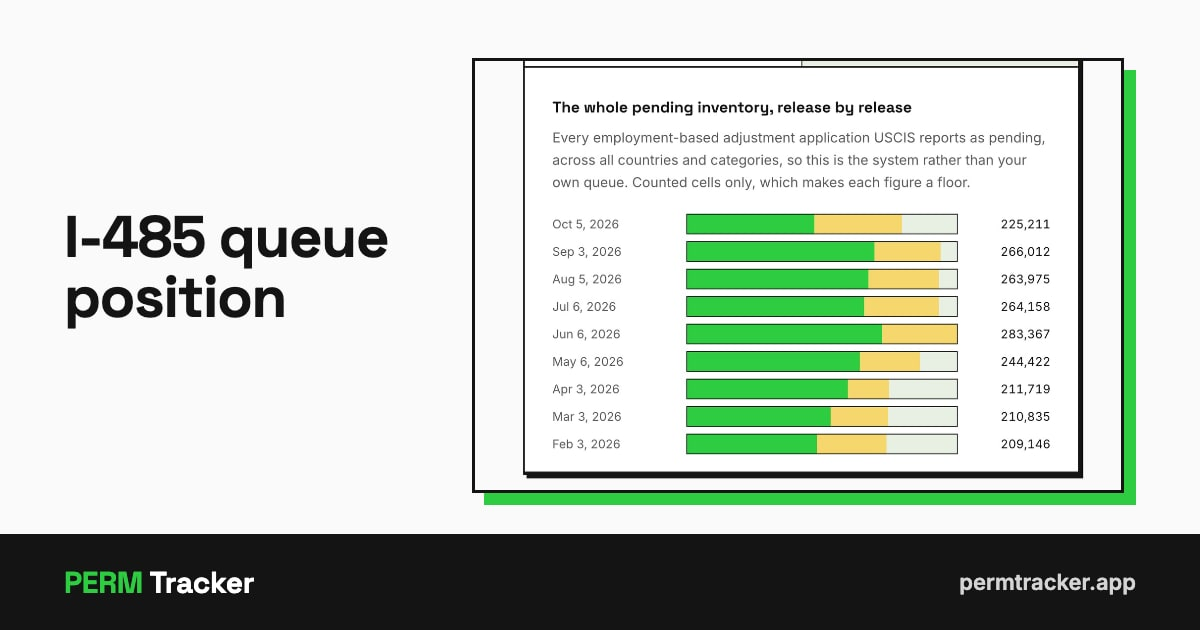
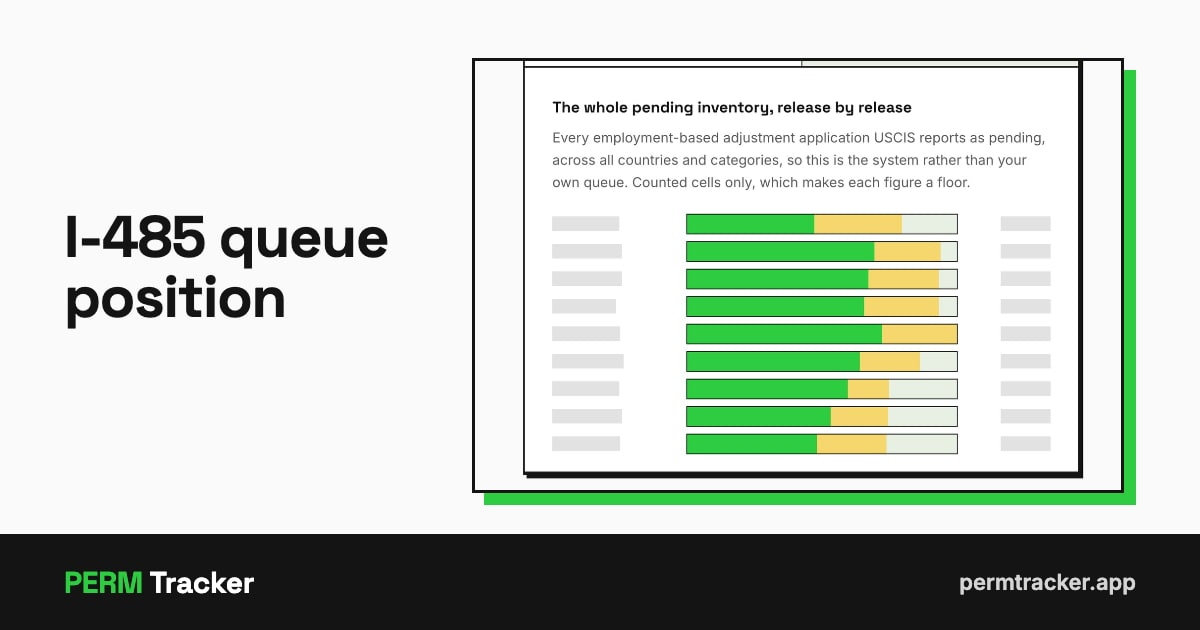
fix(cards): 19 share cards keep the page's shape and drop its moving figures
A shared card is a still picture, so a count or date on it goes stale (the
owner's rule: a card holds no live figure). An OCR pass found counts, shares
and dates on 19 cards: the case search, layoffs, LCA, wage-request, PERM and
seasonal searches, law firms, the queue, employers under review, press, the
I-140 and I-485 counts, the green card line, EB-2 vs EB-3, both salary
charts, denial risk and open data. Their specs now say "mask": "figures", and
the capture draws each moving figure as a grey bar of its own width (the
reviews card's treatment) and hides a chart's own labels, so each card still
shows its page. Codes and fixed wording stay (G-100-..., ETA-9089, I-140,
"60 days' notice"). The rule is scripts/lib_card_mask.mjs, tested; two passes
of looking at every card found what the first rule missed.

Claude-Session: https://claude.ai/code/session_01XYgdcpR3a27fwYMdTXZtsH

Changed region(s): [[0.4625, 0.3317, 0.5242, 0.7238], [0.8325, 0.3317, 0.8942, 0.7238]]

diff --git a/v2/src/lib/__tests__/cardMask.test.ts b/v2/src/lib/__tests__/cardMask.test.ts
@@ -1,0 +1,40 @@
+import { describe, expect, it } from "vitest";
+
+import { figureRuns, isBareFigure } from "../../../scripts/lib_card_mask.mjs";
+
+describe("what a social card masks", () => {
+  it("masks counts, percentages, dollars and dates", () => {
+    expect(figureRuns("2,880 PERM cases are on hold, 3.3% of the 88,138 DOL has pending, as of October 27, 2026.")).toEqual([
+      "2,880",
+      "3.3%",
+      "88,138",
+      "October 27, 2026",
+    ]);
+    expect(figureRuns("Each bar is a $10,000 band. DOL is working January 2026, since Oct 8. Cognizant 1,831, Adobe 226.")).toEqual([
+      "$10,000",
+      "January 2026",
+      "Oct 8",
+      "1,831",
+      "226",
+    ]);
+  });
+
+  it("masks the moving figures a first pass let through (Oct 29 2026)", () => {
+    expect(figureRuns("PERM wage requests take 3 to 4 months at DOL now; 3.4 to 10 years at that pace")).toEqual([
+      "3 to 4 months",
+      "3.4 to 10 years",
+    ]);
+    expect(figureRuns("Since the end of Tuesday: Denied +49, Reconsideration Appeals -12")).toEqual(["Tuesday", "+49", "-12"]);
+    expect(figureRuns("3.4 to 10")).toEqual(["3.4 to 10"]);
+    expect(figureRuns("2026-10-21 perm_queue; 2026-11 EB2 india 01NOV13")).toEqual(["2026-10-21", "2026-11", "01NOV13"]);
+  });
+
+  it("masks text that is only a figure, however short", () => {
+    expect(["8", " 79 ", "+8", "-12", "26%"].map(isBareFigure)).toEqual([true, true, true, true, true]);
+    expect(["EB-2", "I-140", "to", "Level II"].map(isBareFigure)).toEqual([false, false, false, false]);
+  });
+
+  it("leaves codes, form names and fixed wording alone", () => {
+    expect(figureRuns("G-100-26125-868956 on an ETA-9089, the I-140, FY2016, H-1B and EB-2; 60 days' notice")).toEqual([]);
+  });
+});
